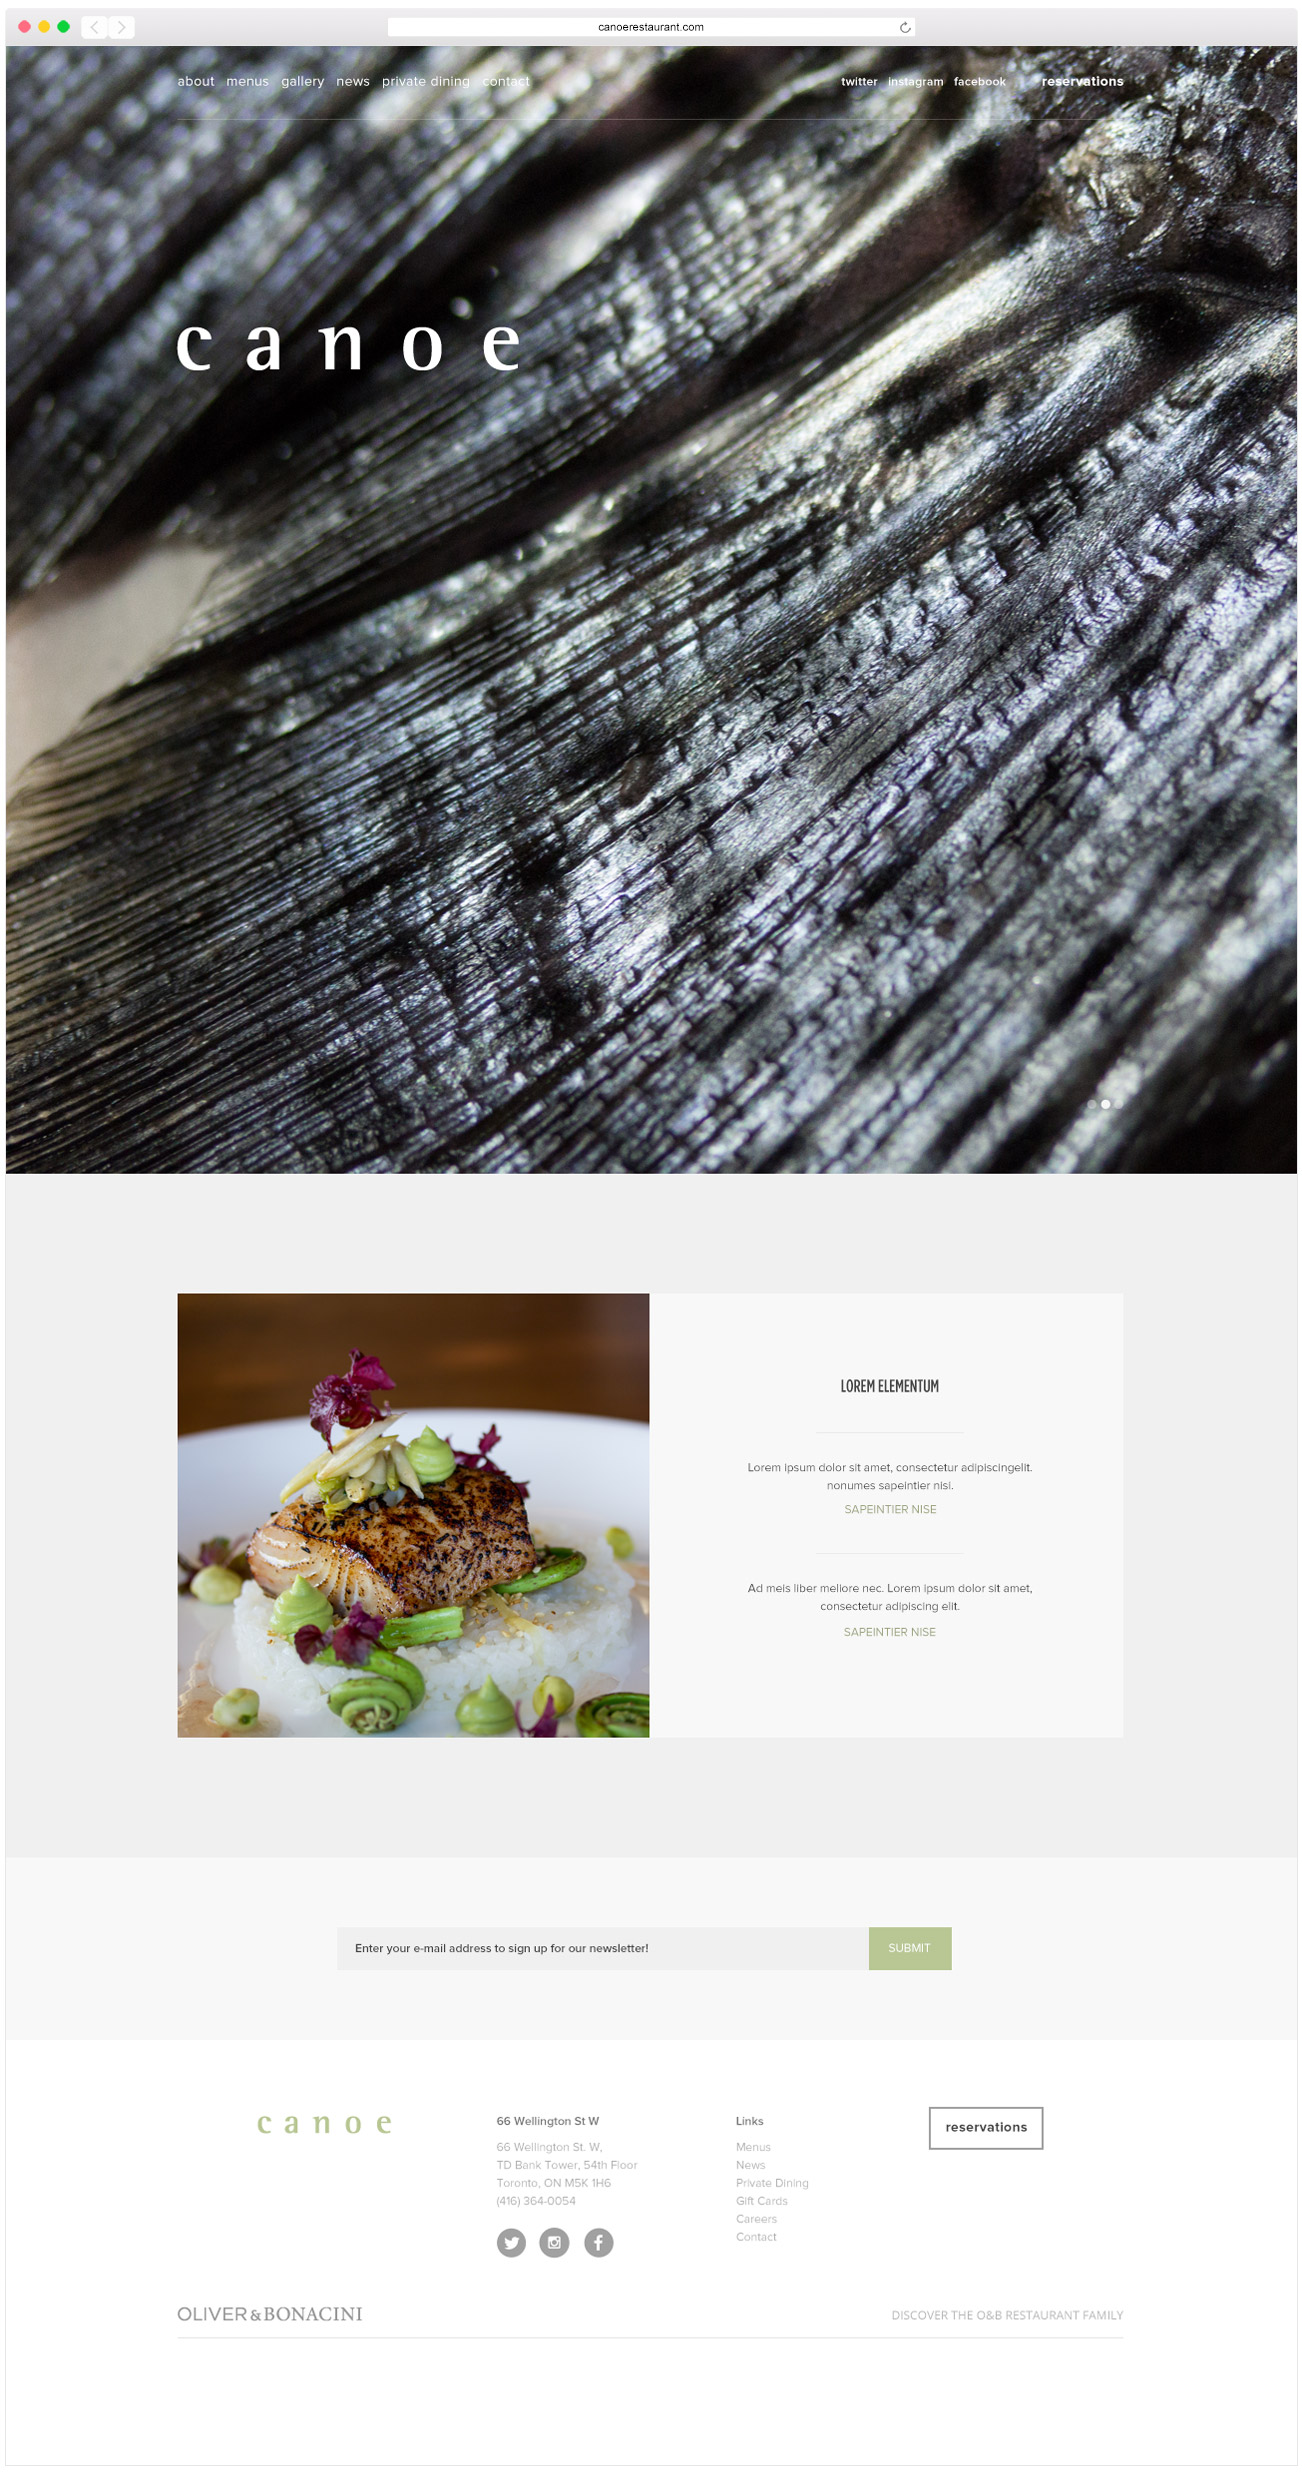
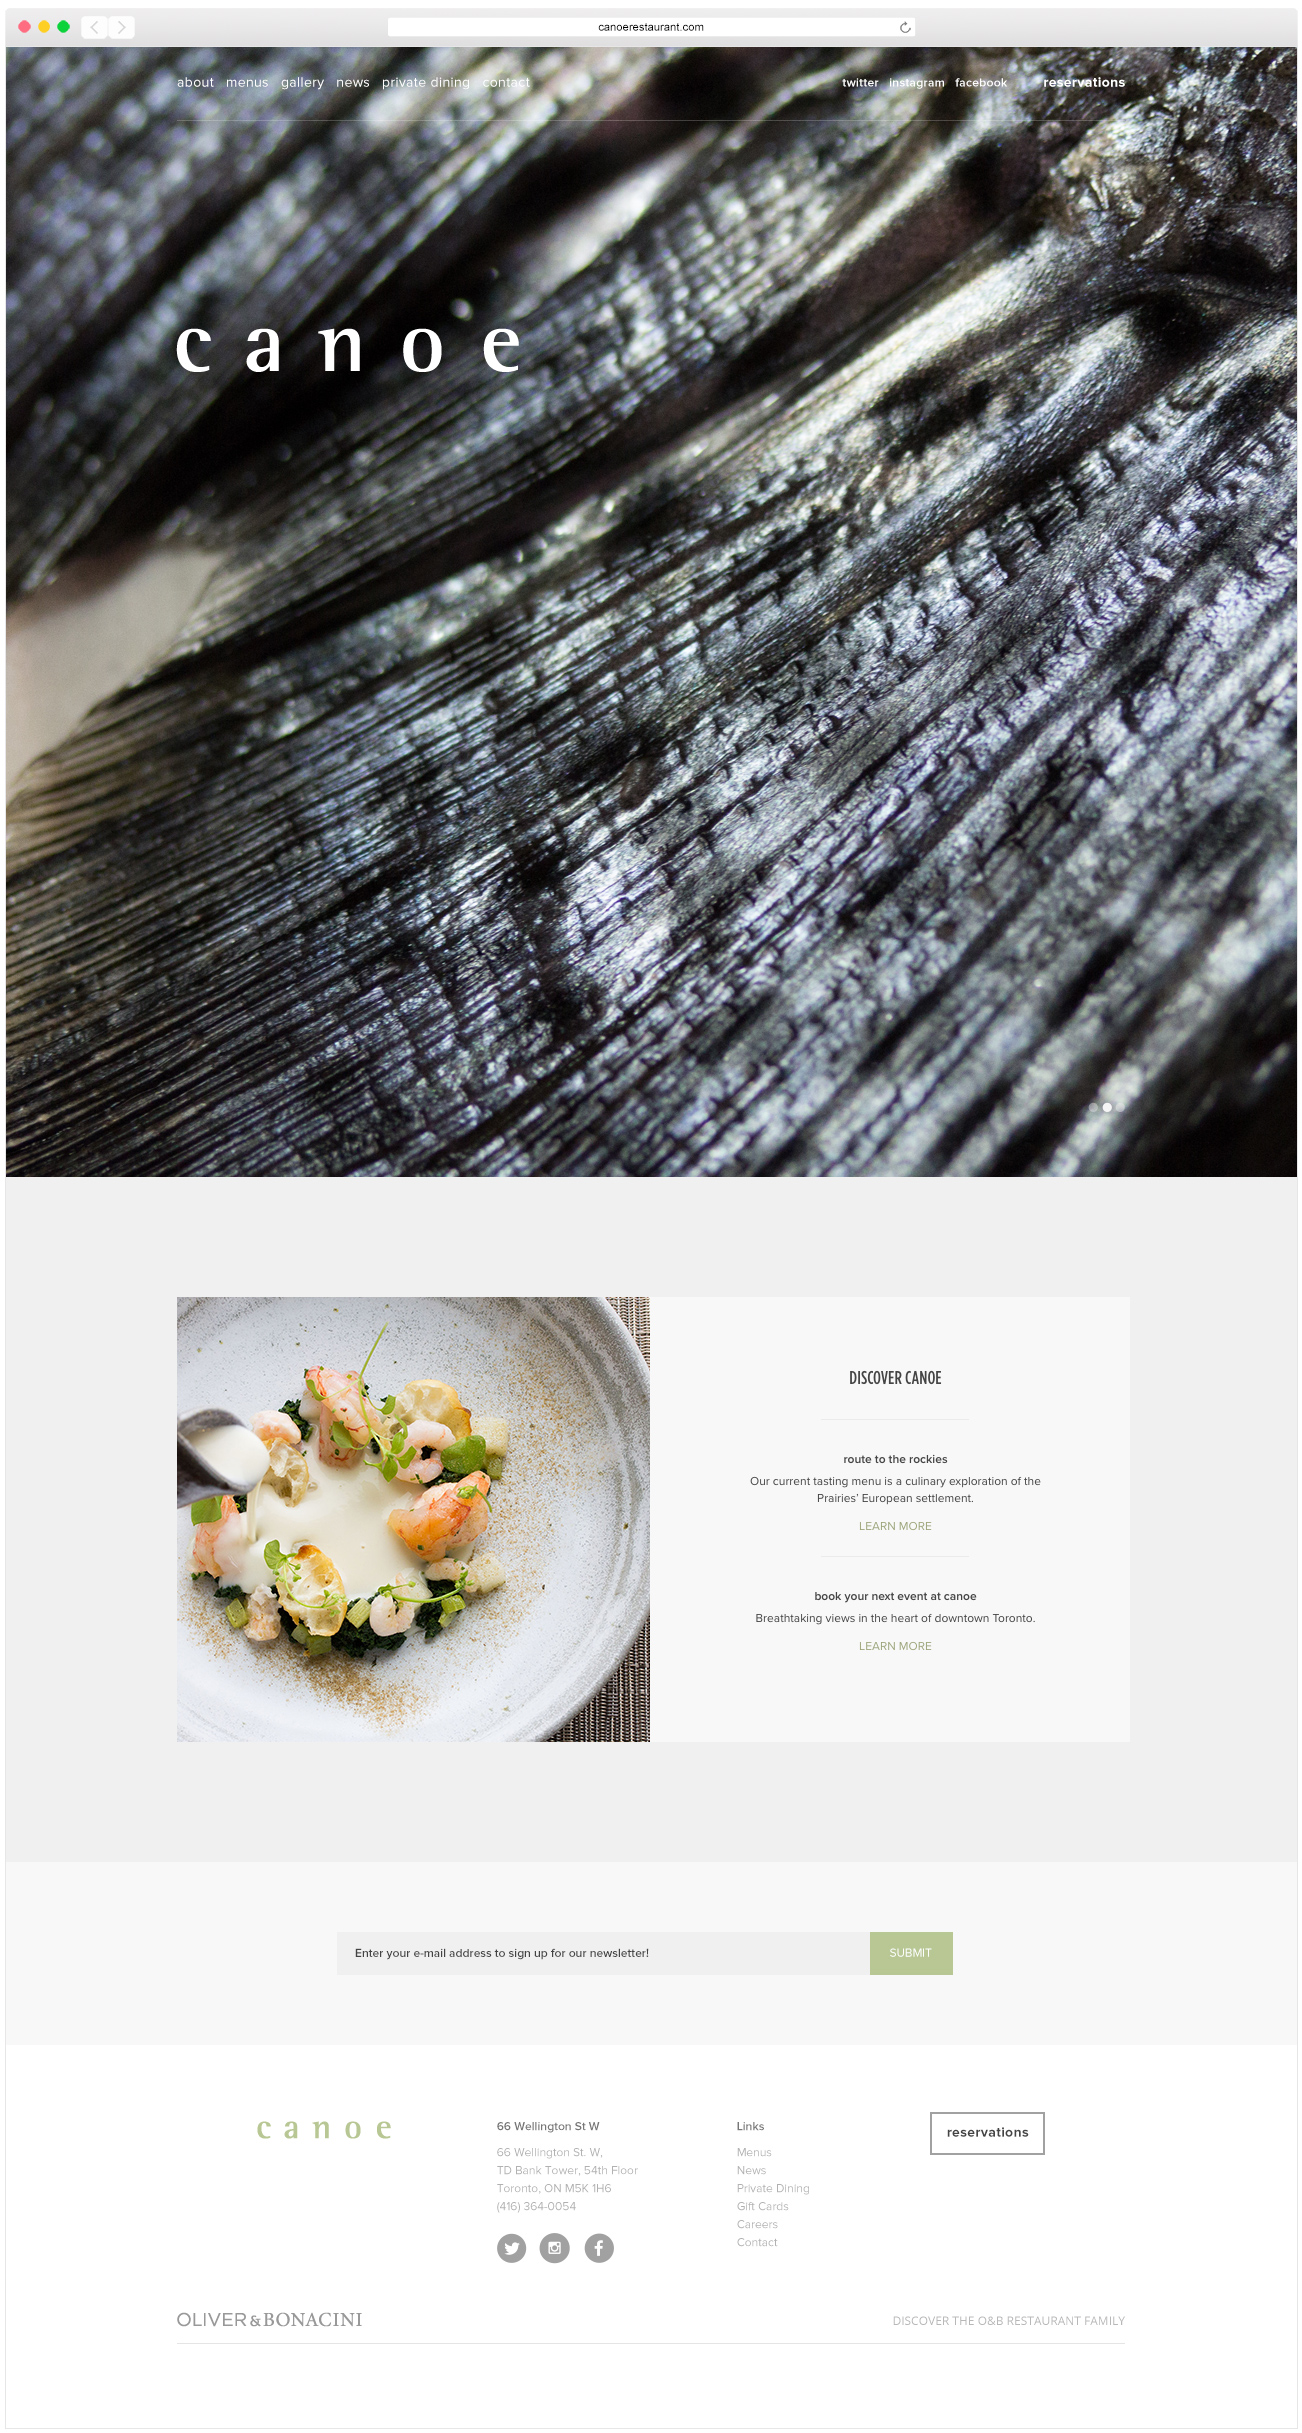
updates to Site After Receiving Feedback
Copy updates to the Home Page and About Page, New Image for Canoe
Restaurant and created new portfolio project header images. Also
updated the layout on the Portfolio Page to match the home page’s
layout of off-set by one, no longer full 12 Columns Wide.

diff --git a/portfolio/index.html b/portfolio/index.html
@@ -8,22 +8,27 @@ title:  "Portfolio"
   <div class="headerOverlay"></div>
 </div>
 
-<div class="row large-collapse">
-  <div class="small-12 medium-9 columns">
-    <h5>Portfolio</h5>
+<div id="portfolio">
+  <div class="row large-collapse">
+    <div class="small-12 medium-9 large-offset-1 columns">
+      <h5>Work</h5>
+    </div>
   </div>
-</div>
-
-<div class="projects row small-up-2 medium-up-2 large-up-5 small-collapse">
-  {% for post in site.portfolio %}
-    {% unless post.private == true %}
-      <div class="columns">
-        <a class="projectLink" href="{{ post.url | prepend: site.baseurl }}">
-          <h5>{{ post.title }}</h5>
-          <div class="projectOverlay"></div>
-          <img src="{{ site.baseurl }}/img/portfolio/{{ post.featured_image }}">
-        </a>
+  <div class="row small-collapse medium-collapse large-collapse">
+    <div class="small-12 large-10 large-offset-1 columns">
+      <div class="projects small-up-2 medium-up-2 large-up-4 small-collapse">
+        {% for post in site.portfolio %}
+          {% unless post.private == true %}
+            <div class="columns">
+              <a class="projectLink" href="{{ post.url | prepend: site.baseurl }}">
+                <h5>{{ post.title }}</h5>
+                <div class="projectOverlay"></div>
+                <img src="{{ site.baseurl }}/img/portfolio/{{ post.featured_image }}">
+              </a>
+            </div>
+          {% endunless %}
+        {% endfor %}
       </div>
-    {% endunless %}
-  {% endfor %}
+    </div>
+  </div>
 </div>

diff --git a/index.html b/index.html
@@ -12,7 +12,7 @@ body_class: home
   <div class="row">
     <div class="small-12 medium-9 medium-offset-1 columns">
       <h5>About</h5>
-      <h2>Hi I’m Daniel, an advocate of colour, a foodie and a designer.</h2>
+      <h2>Hi I’m Daniel, a Digital Designer and Graphic Designer.</h2>
     </div>
     <div class="small-12 medium-7 medium-offset-1 large-6 colmuns">
       <div class="multiColumns">

diff --git a/css/main.scss b/css/main.scss
@@ -754,12 +754,6 @@ header {
   .pageHeader {
     @extend .pageHeader;
     background-image: url('../img/portfolioHeader.jpg');
-    margin-bottom: 2em;
-
-    @include breakpoint(large) {
-      margin-bottom: 5em;
-    }
-
   }
 
   h5 {
@@ -768,6 +762,10 @@ header {
       padding-left: 0.5em;
     }
 
+  }
+
+  #portfolio {
+    @include sectionBlock;
   }
 
   .projects {

diff --git a/_layouts/about.html b/_layouts/about.html
@@ -2,7 +2,7 @@
 layout: default
 ---
 <div class="pageHeader">
-  <h2>Torontonian, advocate of colour, and foodie. </h2>
+  <h2>Digital Designer and Graphic Designer.</h2>
   <div class="headerOverlay"></div>
 </div>
 
